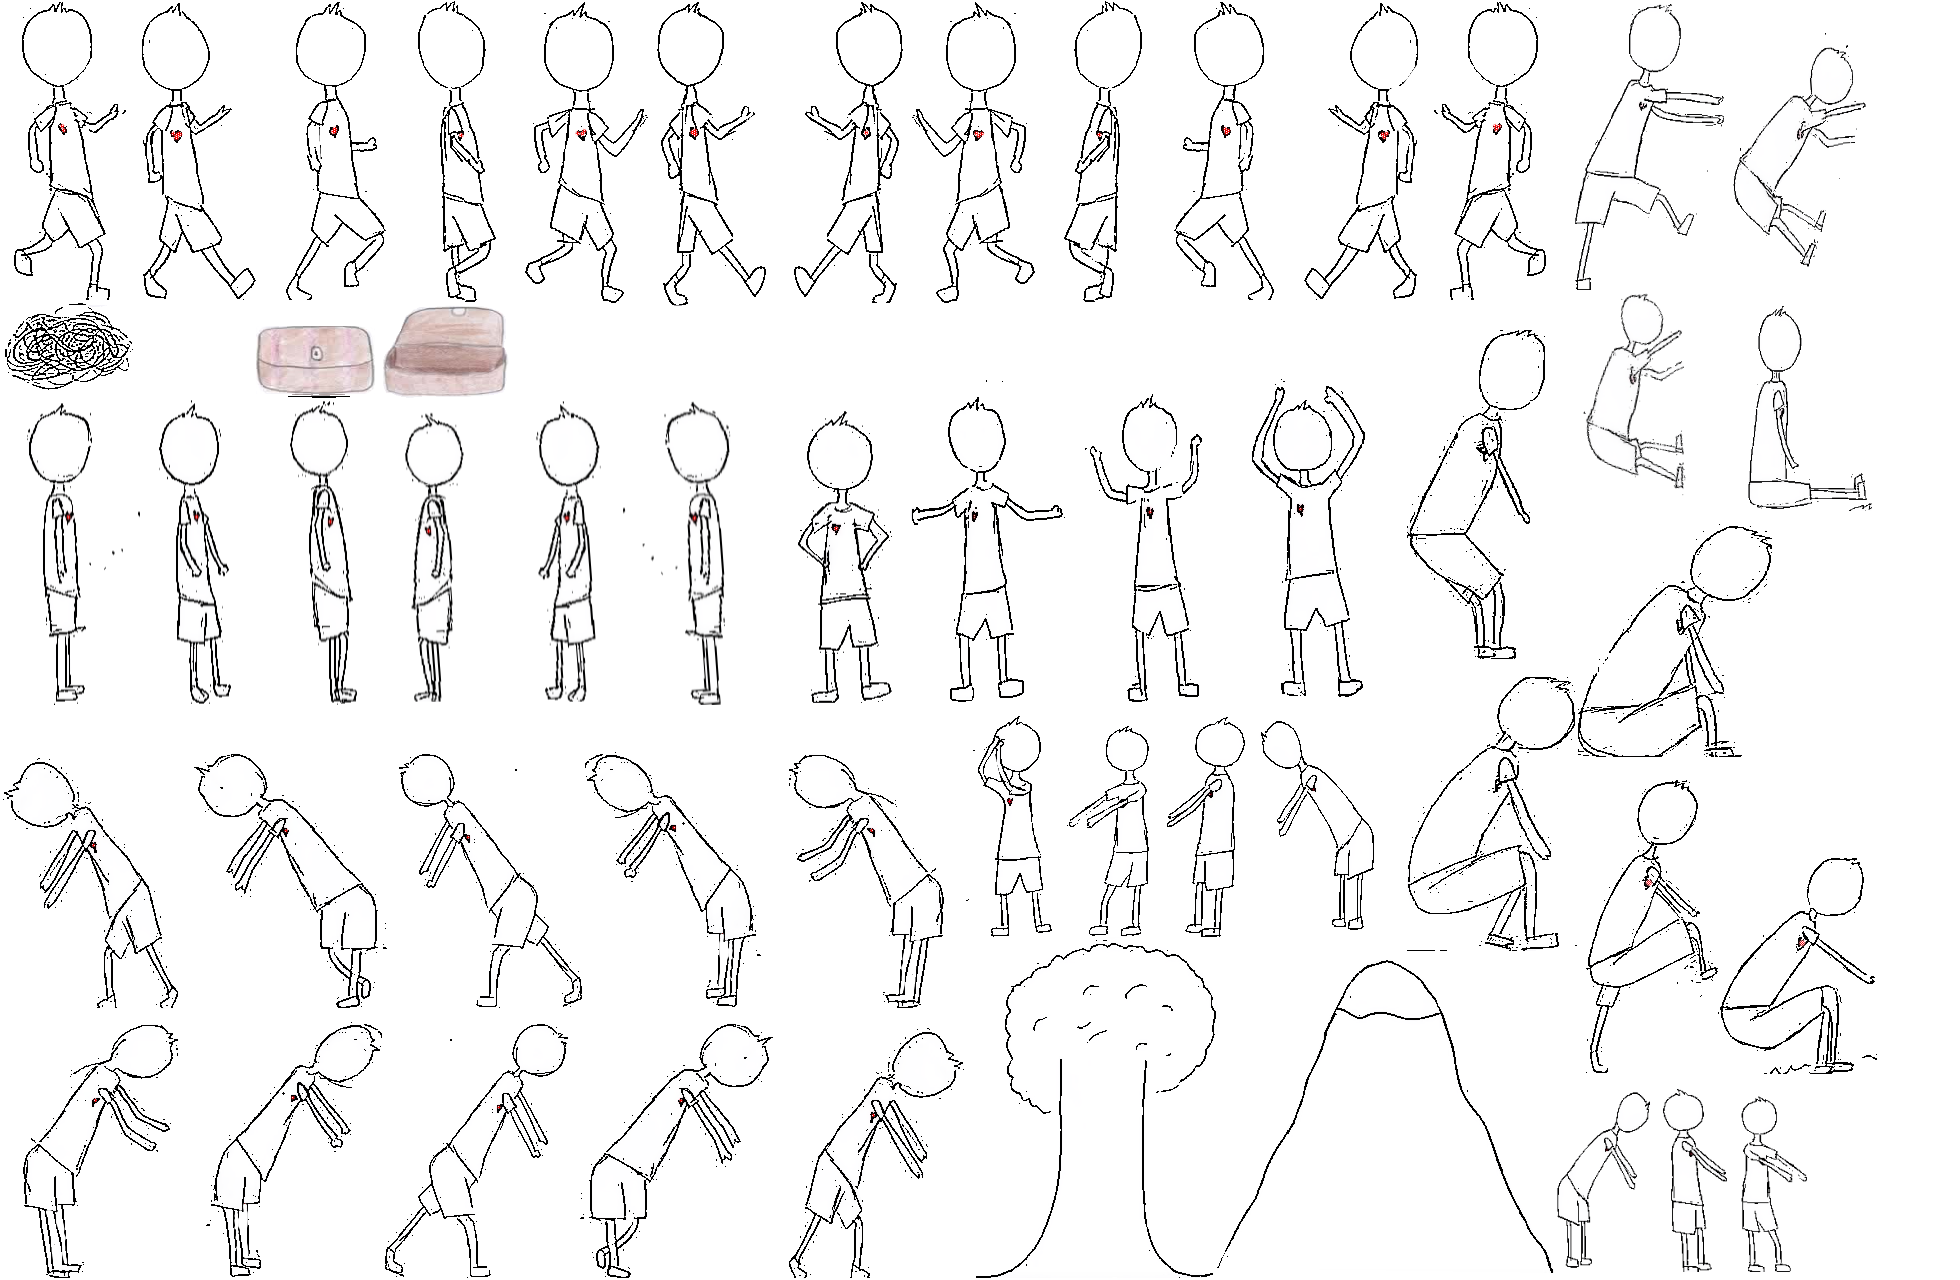
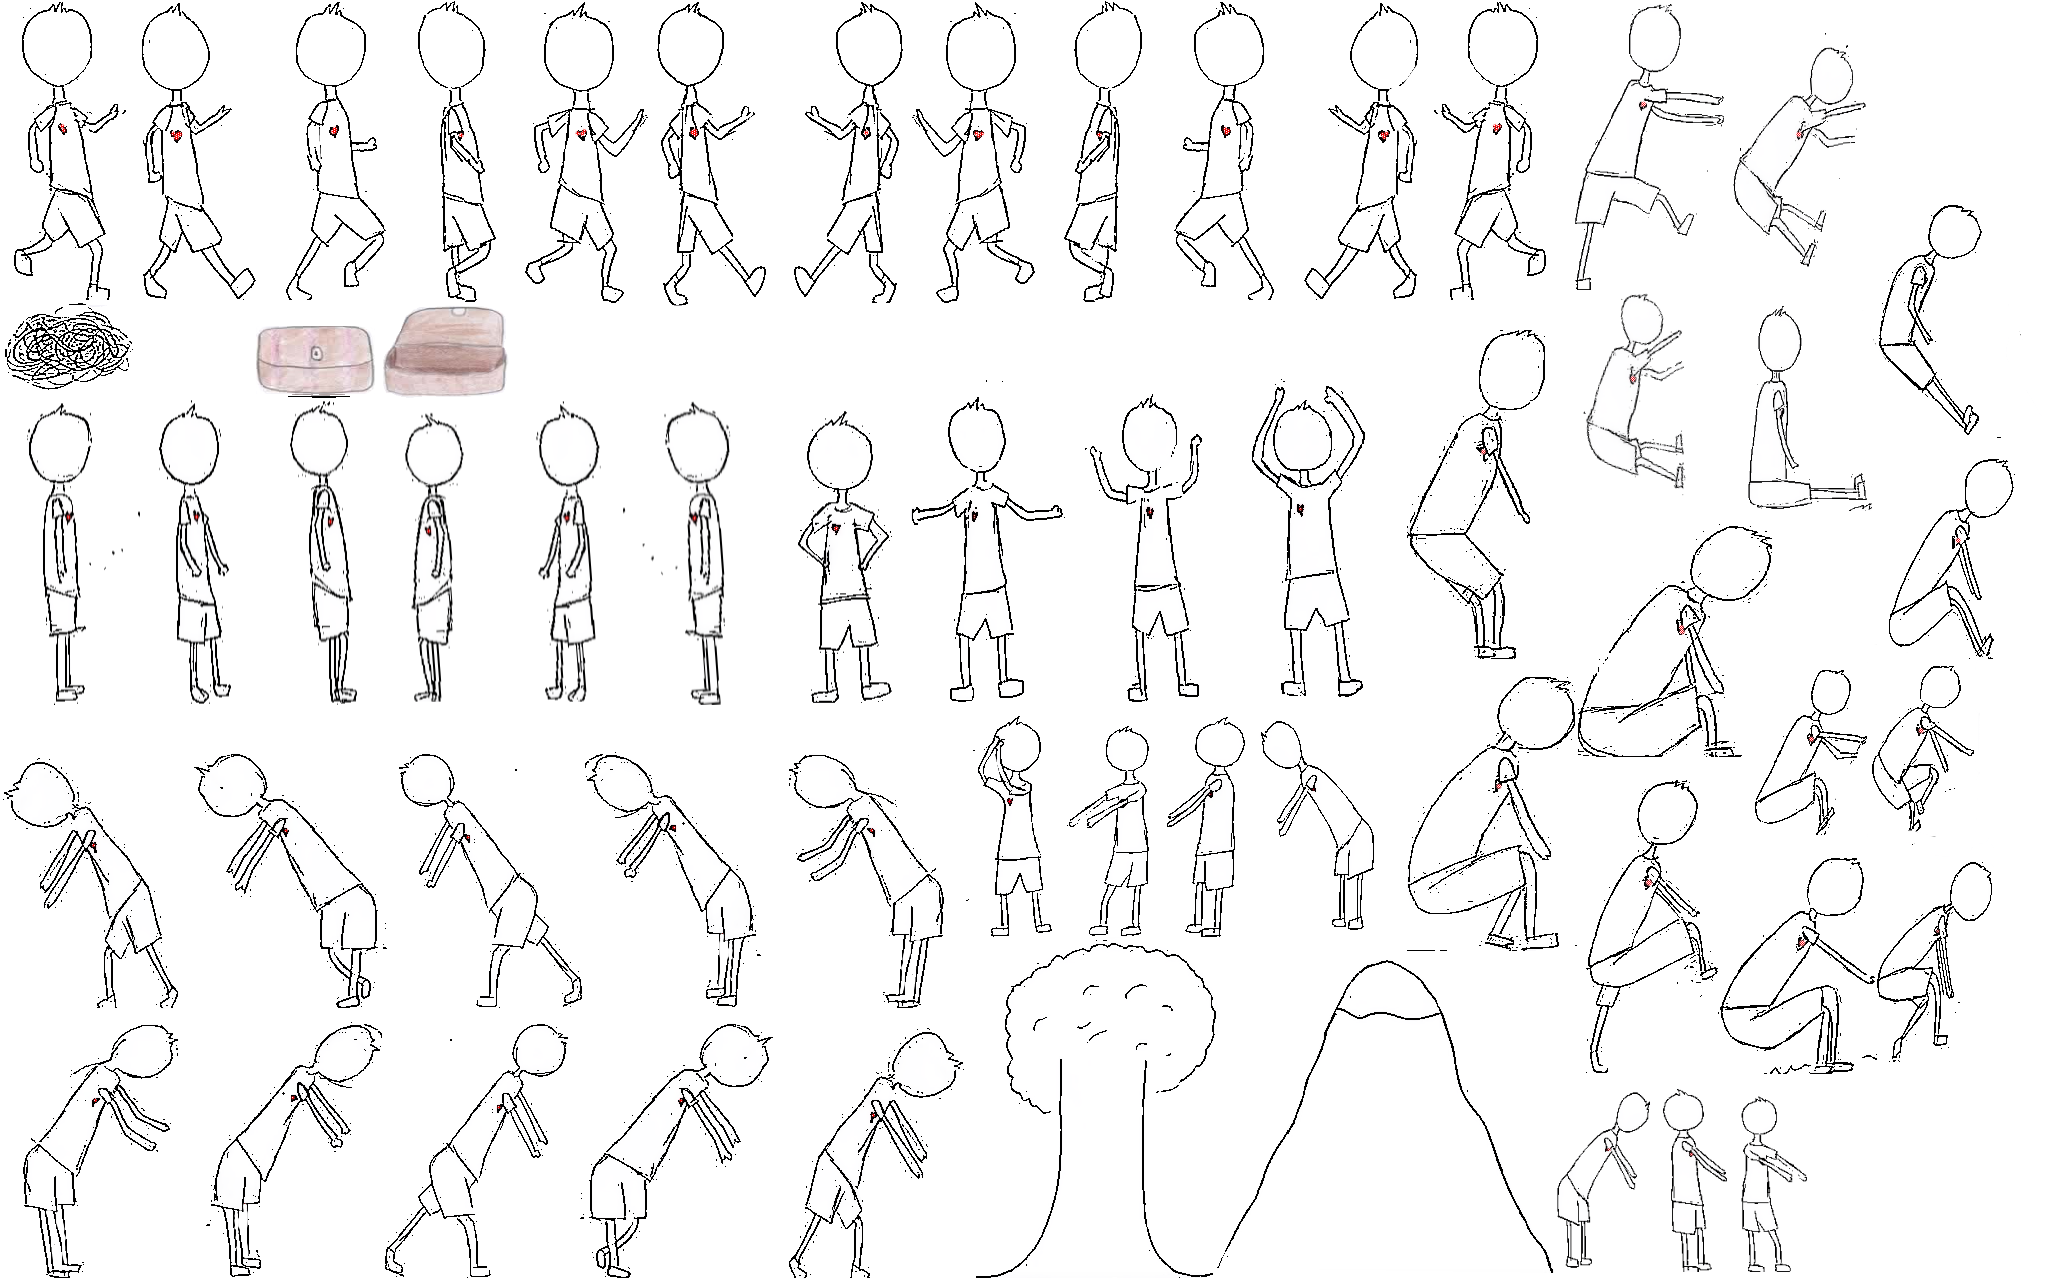
descente tobogan

diff --git a/static/scripts/mainChar.js b/static/scripts/mainChar.js
@@ -54,7 +54,7 @@ class Entity {
     addEffect(effet){
         if(this.effets.includes(effet))
             return
-        
+        console.log("new effet", effet)
         this.effets.push(effet)
     }
     removeEffect(effet){
@@ -89,7 +89,17 @@ class Entity {
                 this.addEffect("catch")
                 //this.etat = "lookup"
             }
-        } else if (this.etat == "lookup" && this.speedX == 0){
+        }else if (this.effets.includes("top")){
+           this.speedX = 0;
+           if(this.etat == "lookup"){
+               this.removeEffect("top")
+               this.addEffect("tobogan")
+               this.switchAnim("tobogan")
+               this.speedX = 2;
+                this.speedY = 2;
+                console.log("tobogan ",this.effets, this.effets.length)
+           }
+        }else if (this.etat == "lookup" && this.speedX == 0){
             this.switchAnim('lookup');
         }else if (this.effets.includes("climb")){
             this.switchAnim('climb');
@@ -115,14 +125,24 @@ class Entity {
             }
         }else if (this.effets.includes("cloudClimb")){
             this.switchAnim("cloudClimb")
-            this.speedY = -5;
-            this.speedX = 1;
+            this.speedY = -2;
+            this.speedX = 2.5;
             this.animation.onComplete = ()=>{
                 this.removeEffect("cloudClimb")
+                this.addEffect("top")
                 this.speedY = 0;
                 console.log("cicle montée terminé");
-                this.switchAnim('stand');
             }
+        }else if (this.effets.includes("tobogan")){
+            this.speedX = 1.5;
+            console.log("test", this.getY())
+           if(this.getY() >= 250){
+               console.log("good")
+               this.speedY = 0;
+               this.speedX = 0;
+               this.removeEffect("tobogan")
+               this.switchAnim('stand');
+           }
         }else if (this.etat == "out"){
             this.speedX = 0;
             this.switchAnim("outCloud");
@@ -259,7 +279,7 @@ function initMainChar() {
     }
 
     var cloudClimb = [];
-    for (var i = 1; i <= 2; i++) {
+    for (var i = 1; i <= 6; i++) {
         // magically works since the spritesheet was loaded with the pixi loader
         cloudClimb.push(PIXI.Texture.fromFrame('cloud_climb0' + i + '.png'));
     }
@@ -271,6 +291,7 @@ function initMainChar() {
     }
 
     var lookup = [PIXI.Texture.fromFrame('lookup.png')];
+    var tobogan = [PIXI.Texture.fromFrame('tobogan.png')];
 
     var anims = {};
     anims['walkLeft'] = walkLeft;
@@ -286,6 +307,7 @@ function initMainChar() {
     anims['climb'] = climb;
     anims['cloudClimb'] = cloudClimb;
     anims['outCloud'] = outCloud;
+    anims['tobogan'] = tobogan;
 
     var params = {
         y: 250,

diff --git a/static/scripts/things.js b/static/scripts/things.js
@@ -195,11 +195,15 @@ class Nuage extends Thing {
             this.pos.x += deplacement.x;
             this.pos.y += deplacement.y;
         }
-        console.log("nuage doit reapparaitre", charAttitude.etat == "pop" , this.pos.y == 5000)
-        if (charAttitude.etat == "pop" && this.pos.y == 5000) {
-            console.log("nuage doit reapparaitre")
+        //console.log("nuage doit reapparaitre", charAttitude.etat == "pop" , this.pos.y == 5000)
+        if (charAttitude.etat == "pop" ) {
+            console.log("nuage doit reapparaitre,", charAttitude.x + 100)
             this.pos.y = 200;
-            this.pos.x = charAttitude.x + 100;
+            if(charAttitude.x < 800){
+                this.pos.x = 276;
+            }else{
+                this.pos.x = 1076;
+            }
             this.active = false;
         }
 
@@ -256,9 +260,13 @@ class Nuage extends Thing {
 
 class Colline extends Thing {
     turn(camPos, charAttitude) {
-        if (this.pos.x + 20 < charAttitude.x) {
+        if (charAttitude.effets.includes("top")) {
+            //console.log("put to top")
+            //charAttitude.x = this.pos.x + this.width/2
+            //charAttitude.y = this.pos.y + 100;
+        } else if (this.pos.x + 20 < charAttitude.x && charAttitude.x > this.pos.x -5 + this.width/2 ) {
             charAttitude.newEffets.push("climb")
-        } else if (this.pos.x < charAttitude.x) {
+        } else if (this.pos.x < charAttitude.x && charAttitude.x > this.pos.x -5 + this.width/2) {
             charAttitude.speedY = -(charAttitude.speedX)
         }
     }

diff --git a/static/scripts/world.js b/static/scripts/world.js
@@ -12,6 +12,11 @@ function initWorld() {
         console.log("lock")
         world.locked = true;
     };
+
+    var num0 = keyboard(96);
+    num0.press = function () {
+        world.moveHill()
+    };
 }
 
 class World {
@@ -25,7 +30,7 @@ class World {
         this.things = [];
 
         this.things.push(new Thing(stage, { x: 900, y: 75, zIndex: 3 }, 'arbre', { width: 227, height: 343 }))
-        this.things.push(new Colline(stage, { x: 400, y: 25, zIndex: 3 }, 'colline', { width: 335, height: 425 }))
+        this.things.push(new Colline(stage, { x: 1200, y: 25, zIndex: 3 }, 'colline', { width: 335, height: 425 }))
         this.things.push(new Coffre(stage, { x: -200, y: 220, zIndex: 3 }, 'coffre', { width: 195, height: 142 }))
         this.things.push(new Nuage(stage, { x: -300, y: 50, zIndex: 1 }, 'nuage', { width: 130, height: 95 }))
 
@@ -40,6 +45,18 @@ class World {
             deltaZoom: 0
         }
 
+    }
+
+    moveHill(){
+        for(var thing of this.things){
+            if(thing.name == "colline"){
+                if(thing.pos.x == 1200){
+                    thing.pos.x = 400
+                }else{
+                    thing.pos.x = 1200
+                }
+            }
+        }
     }
 
     play(mainChar) {
